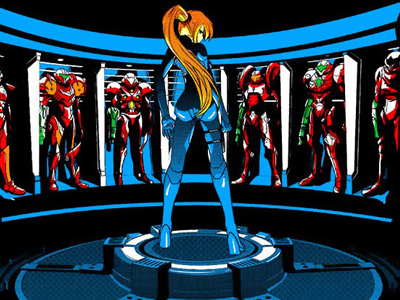
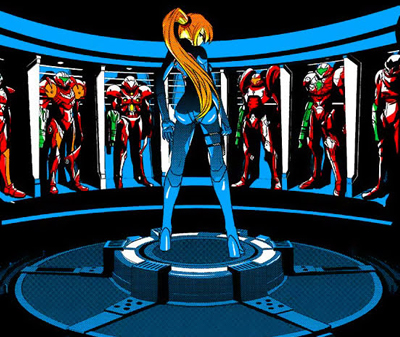
Fixin height

diff --git a/css/playercustom.css b/css/playercustom.css
@@ -68,5 +68,5 @@ html, body {
 
 div#player-top img[amplitude-main-song-info=true] {
     width: 100%;
-    height: 300px !important;
+    height: 337px !important;
 }
